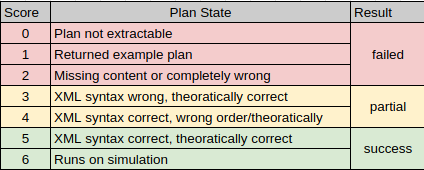
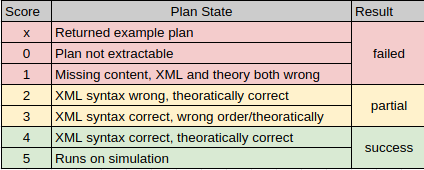
updated readme.md

diff --git a/README.md b/README.md
@@ -1,16 +1,31 @@
 # ICRA 2026 Fabric vs BTGenBot comparison
 
+This packacge contains the experiments designed and executed to compare the generative properties of the Fabric against BTGenBot.
+
+To maintain similarity between the experiments, prompts of the Fabric has been simplified to focus just on the waypoint navigation and
+prompts of BTGenBot has been improved with more complex examples (with recovery functions) for oneshot prompts.
+
+To setup Fabric please follow instructions in [CollaborativeRoboticsLab/fabric](https://github.com/CollaborativeRoboticsLab/fabric)
+To setup Capabilities2 please follow instructions in [CollaborativeRoboticsLab/capabilities2](https://github.com/CollaborativeRoboticsLab/capabilities2)
+
+Original BTGenBot is available in [AIRLab-POLIMI/BTGenBot](https://github.com/AIRLab-POLIMI/BTGenBot)
+An updated version with ros2 humble support and detailed setup instructions can be found in [KalanaRatnayake/BTGenBot](https://github.com/KalanaRatnayake/BTGenBot)
+
 ## Setup
 
-Create a python virtual environment
+Clone this repo
+```bash
+git clone https://github.com/CollaborativeRoboticsLab/ICRA-2026-Fabric-vs-BTGenBot-comparison
+```
 
+Create a python virtual environment
 ```bash 
+cd ICRA-2026-Fabric-vs-BTGenBot-comparison
 python3 -m venv .venv
 source .venv/bin/activate
 ```
 
 Install Dependencies
-
 ```bash
 pip install -r requirements.txt
 ```
@@ -21,30 +36,47 @@ Activate the venv
 ```bash
 source .venv/bin/activate
 ```
-Following commands will run the code for each of the tasks available in the tasks folder and write the corresponding plan to workspace/src/bt_client/bt_xml folder with filename format of `<model>-<zero>-<original_filename>-<iteration>.xml`
+Following commands will run the code for each of the tasks available in the respective tasks folders and create files in the sub
+directories within `Fabric` and `BTGenBot`
 
-### BT
+- `logs` folder will contain log files for each execution 
+- `outputs` folder will contain execution plans in different subdirectories based on the model, prompt type
+- `timing_data` contains extracted time information for each run. To generate this data, please see following section called **Extract execution times**
+- `runnable` contains plans identified as complete and executable by the evaluation team.
 
-Move in to the BTGenBot folder
+### Pre-requisites
+
+To run these experiments, the user need to complete following pre-requisites.
+
+- Huggingface API Key - create a account with HuggingFace and follow instructions [Official](https://huggingface.co/docs/hub/en/security-tokens), [3rd Party](https://www.nightfall.ai/ai-security-101/hugging-face-api-key), [Video](https://www.youtube.com/watch?v=aCYSpo-8ijI)
+- OpenAI api key - Create an account with OpenAI and follow instructions [Settings](https://platform.openai.com/api-keys), [Video](https://www.youtube.com/watch?v=SzPE_AE0eEo), [3rd-Party](https://medium.com/@lorenzozar/how-to-get-your-own-openai-api-key-f4d44e60c327)
+- Request access to LLama's gated Models [here](https://huggingface.co/meta-llama/Llama-2-7b-chat-hf)
+- A computer with a GPU of at least 16GB. The llamachat and codellama models downloads and runs locally.
+
+
+### BTGenBot Experiments
+
+To run the experiments move into the BTGenBot folder
 ```bash
 cd BTGenBot
 ```
 
-To run the BT generation with llamachat
+To run the BT generation with llamachat, run the following command. It will prompt for the Huggingface api key, enter the key once prompted. And press enter.
+There will also be a prompt asking `Add token as git credential? (Y/n)` which is hidden due to we writing the log into a file. Press `n` in empty terminal and press enter to proceed. This will timeout as well. This can be seen by opening the `BTGenBot/logs/llamachat-rawlog.log`
+
 ```bash
-export HF_TOKEN="your_hugging_face_token_here"
 python3 inference-llamachat.py >> logs/llamachat-rawlog.log
 ```
 
-To run the BT generation with codellama
+To run the BT generation with codellama follow the above mentioned steps again
 ```bash
-export HF_TOKEN="your_hugging_face_token_here"
 python3 inference-codellama.py >> logs/codellama-rawlog.log
 ```
 
-To run the BT generation with openai models select the correct file
+To run the BT generation with openai models, export your openai api key as shown bellow. replace `<your_openai_key_here>` eith the actual api key.
+select the required file or run each consectively.
 ```bash
-export OPENAI_API_KEY="your_openai_key_here"
+export OPENAI_API_KEY=<your_openai_key_here>
 python3 inference-openai-4o.py >> logs/openai-4o-rawlog.log
 python3 inference-openai-4.1.py >> logs/openai-4.1-rawlog.log
 python3 inference-openai-5.py >> logs/openai-5-rawlog.log
@@ -52,66 +84,79 @@ python3 inference-openai-5.py >> logs/openai-5-rawlog.log
 
 ### Fabric
 
-Move in to the Fabric folder
+To run the experiments move in to the Fabric folder
 ```bash
 cd Fabric
 ```
 
-To run the generation with llamachat
+To run the generation with llamachat, run the following command. It will prompt for the Huggingface api key, enter the key once prompted. And press enter.
+There will also be a prompt asking `Add token as git credential? (Y/n)` which is hidden due to we writing the log into a file. Press `n` in empty terminal and press enter to proceed. This will timeout as well. This can be seen by opening the `BTGenBot/logs/llamachat-rawlog.log`
+
 ```bash
-export HF_TOKEN="your_hugging_face_token_here"
 python3 inference-llamachat.py >> logs/llamachat-rawlog.log
 ```
 
-To run the generation with codellama
+To run the generation with codellama follow the above mentioned steps again
 ```bash
-export HF_TOKEN="your_hugging_face_token_here"
 python3 inference-codellama.py >> logs/codellama-rawlog.log
 ```
 
-To run the generation with openai
+To run the generation with openai, export your openai api key as shown bellow. replace `<your_openai_key_here>` eith the actual api key.
+select the required file or run each consectively
 ```bash
-export OPENAI_API_KEY="your_openai_key_here"
+export OPENAI_API_KEY=<your_openai_key_here>
 python3 inference-openai-4o.py >> logs/openai-4o-rawlog.log
 python3 inference-openai-4.1.py >> logs/openai-4.1-rawlog.log
 python3 inference-openai-5.py >> logs/openai-5-rawlog.log
 ```
 
-Prompts and results will be printed onto the terminal.
-
-Data used for evaluation will be available on output-eval and logs-eval folders
-
 ## Evaluation
 
 ### Extract execution times
 
-Run the following files to extract timing data as txt and csv files.
+Run the following files to extract timing data as text and csv files.
 
-Fabric
+For Fabric
 ```bash
 cd Fabric
 python3 extract-execution-time.py
 ```
 
-BTGenBot
+For BTGenBot
 ```bash
 cd BTGenBot
 python3 extract-execution-time.py
 ```
 
-### Plan Eval Criteria
+The values over all the experiments were analyzed and are available in the 
+`results.pdf` under **Time Comparison**
 
-Current Evaluations were done by 3 human evaluators who follows the below scoring approach and attempted to
+### Evaluate Execution Plans
+
+Execution Plan Evaluations were done by 3 human evaluators who follows the below scoring approach and attempted to
 score related to next sections ideal results.
 
 ![Scoring Image](./docs/scoring.png)
 
-Once the scoring was done by each individual, the data was aggregated to reduce the semantics that can occur 
-due to human nature. Then the results were condensed as shown in the above image.
+- Score X is for instances where the result was corrupted. These only occured in oneshot prompting and contained the example plan used in oneshot prompt
+
+- Score 0 is when the xml file was not generated. In this scenarios, a incomplete plan can be seen in the log file. But mainly it lacks `<root></root>` tags in BTGenBot and `<Plan></Plan>` in Fabric which is used to extract the plan from the text.
+
+- Score 1 is when either xml file exist but the content is missing or both xml syntax wrong and theoretical approach in the plan is wrong.
+
+- Score 2 is when xml syntax (xml element names, xml attribute names) are wrong but the theoretical approach (logic, xml attribute values) are  correct.
+
+- Score 3 is when xml syntax (xml element names, xml attribute names) are correct but the theoretical approach (logic, xml attribute values) are  wrong.
+
+- Score 4 is when xml syntax (xml element names, xml attribute names) are correct and the theoretical approach (logic, xml attribute values) are  correct.
+
+- Score 5 is when plan can be run on the simulation.
+
+Once the scoring was done by each individual independently, the results were condensed into `failed`, `partial` and `success` as shown in the above image. Finally the results of the 3 evaluations was aggregated to reduce the human error. The `failed`, `partial` and `success` percentages are are available in the `results.pdf` under **Plan Comparison**
 
 ### Ideal results
 
-Tasks are available in `BTGenBot/tasks/` and `Fabric/tasks` folders
+Following are the ideal execution plans for the asks are available in `BTGenBot/tasks/` and `Fabric/tasks` folders
 
 #### Task 1 (Generative 1)
 
